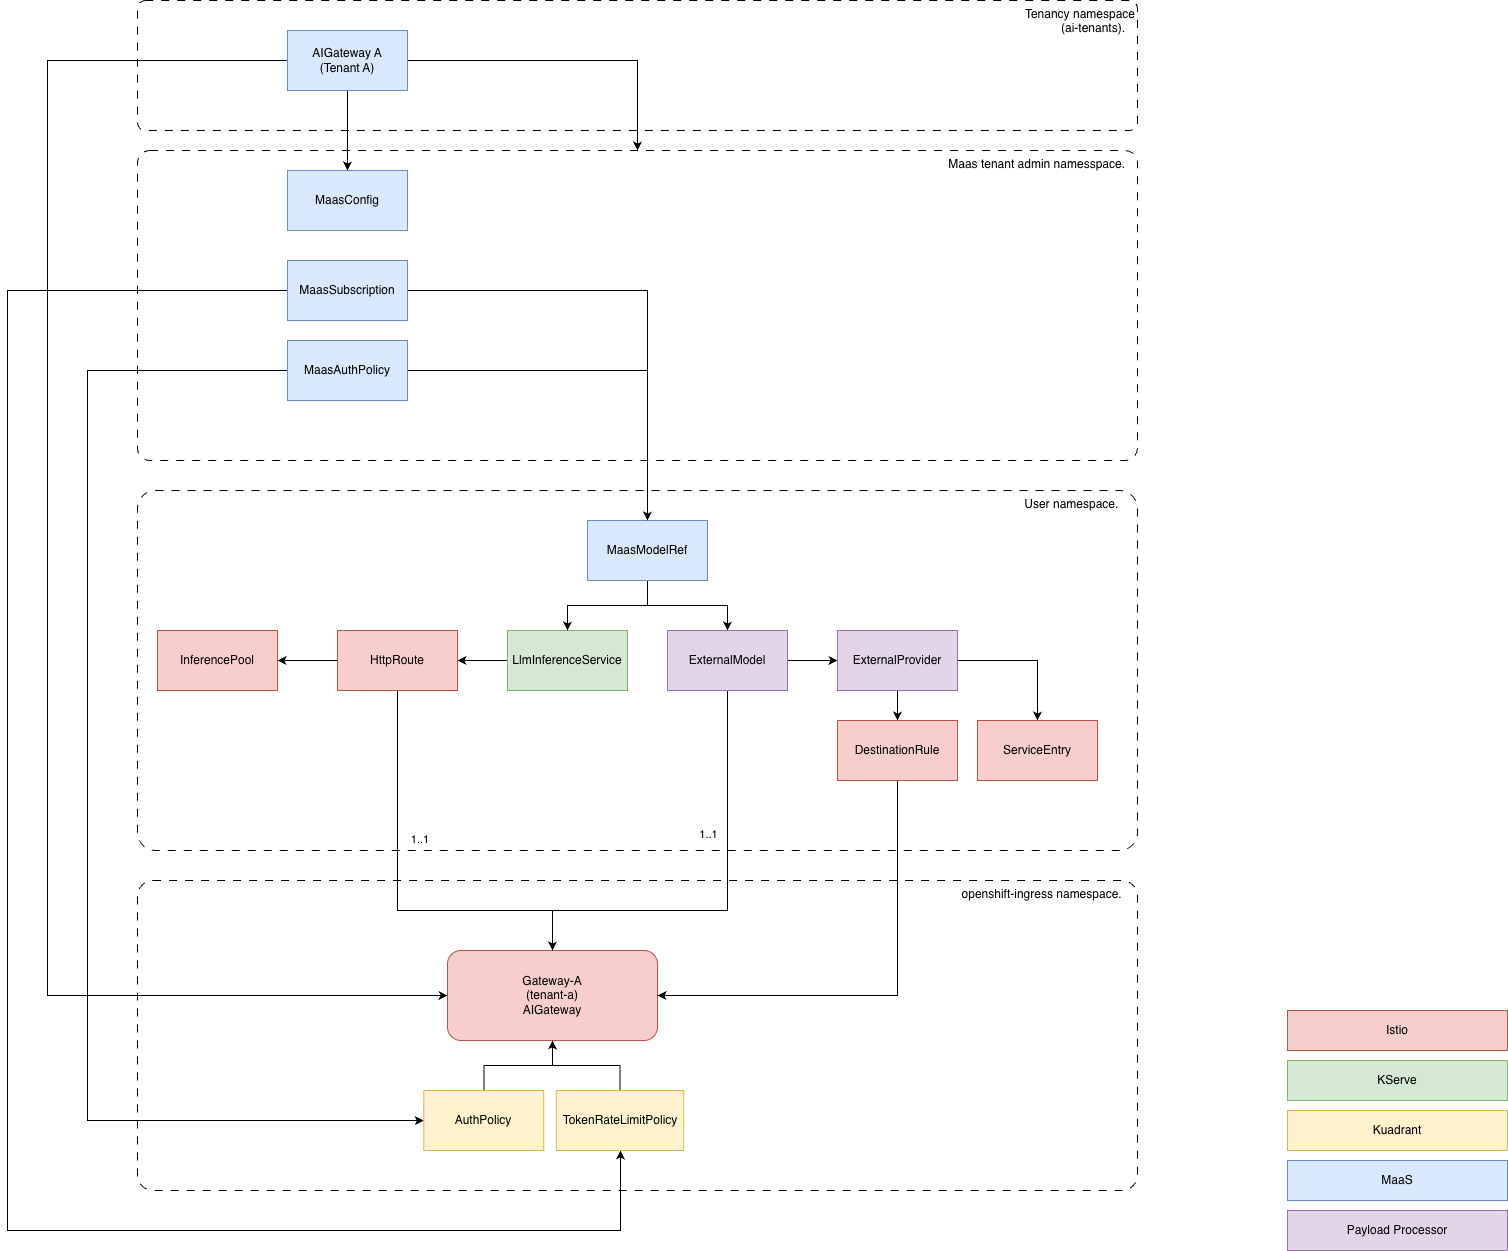
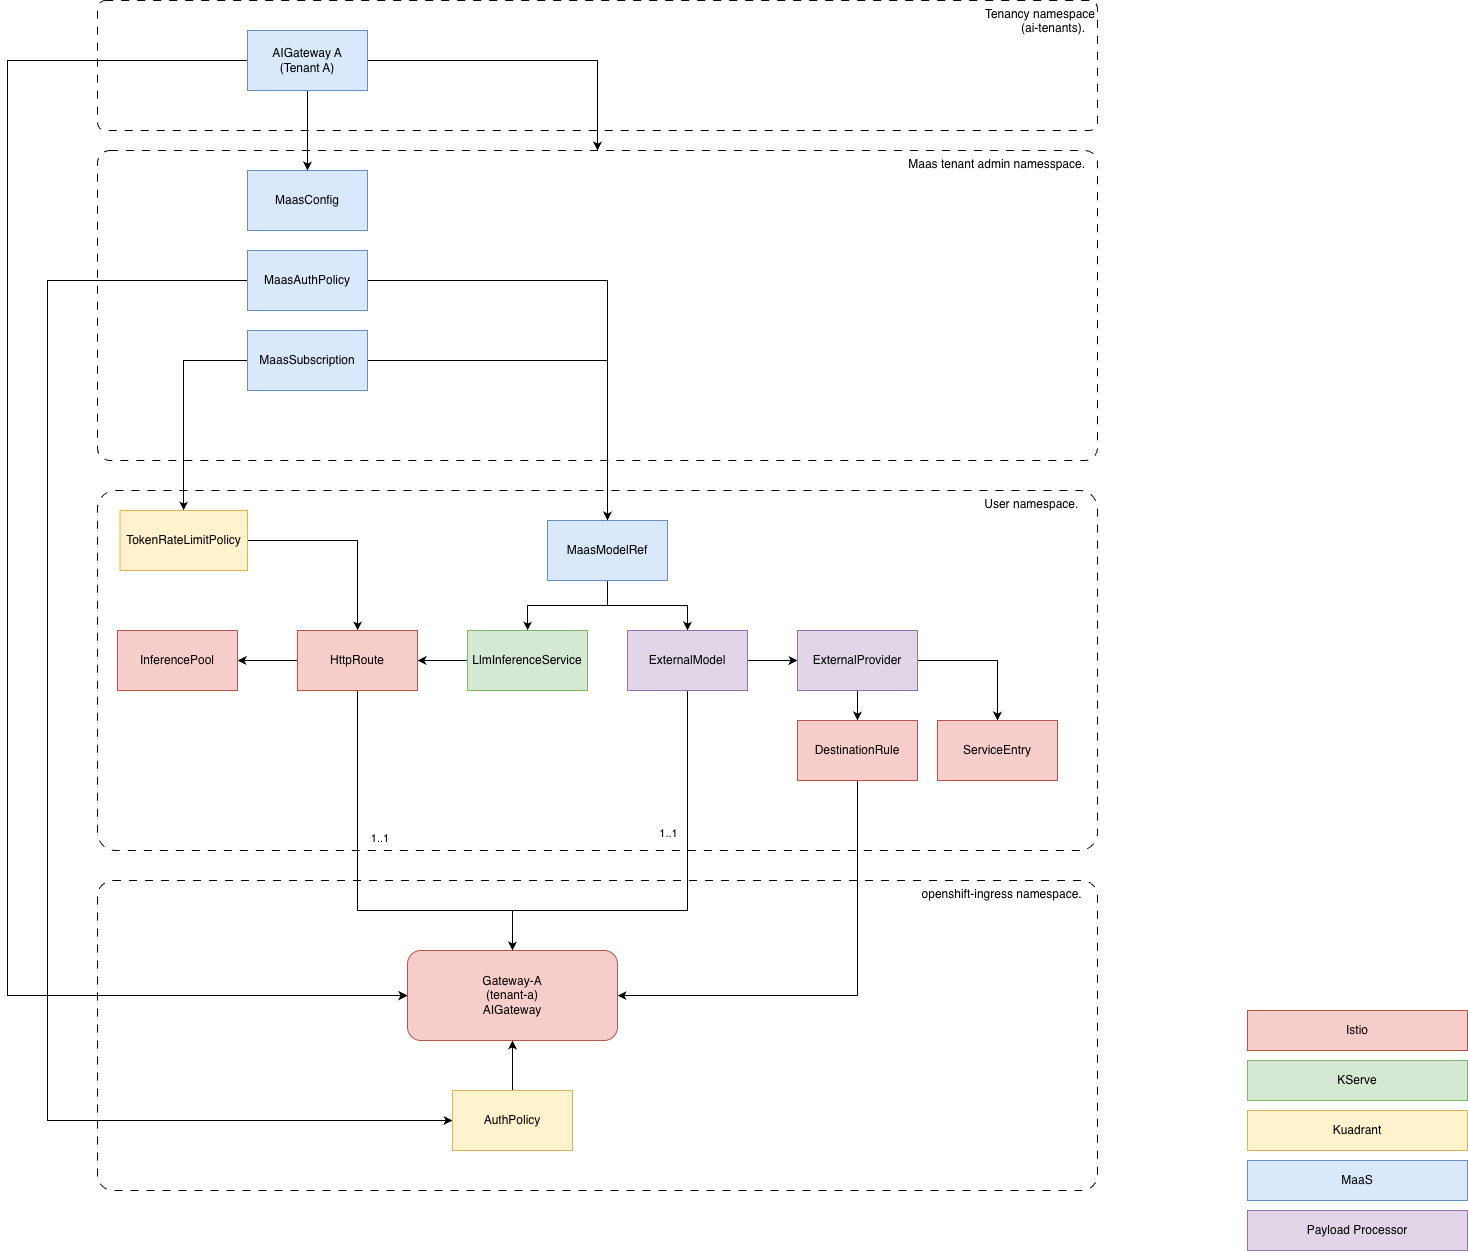
doc:refined the diagram

diff --git a/architecture-decision-records/model-serving/ODH-ADR-MS-0003-ai-gateway-tenancy.md b/architecture-decision-records/model-serving/ODH-ADR-MS-0003-ai-gateway-tenancy.md
@@ -59,11 +59,7 @@ We are proposing here that the tenant lifecycle management is automatic in the s
         - set the default api-key expiration time
         - configure observability
         - ...
-
-#### Notes
-- There is a single instance of maas-controller in the cluster.
-- There is a single instance of maas-api service in the cluster. This serves /v1/apikeys, /v1/subscriptions endpoints. 
-
+    - Create the maas-api service instance. See [Option 2](#OPTION-2)
 
 ##### Tenant deletion
 